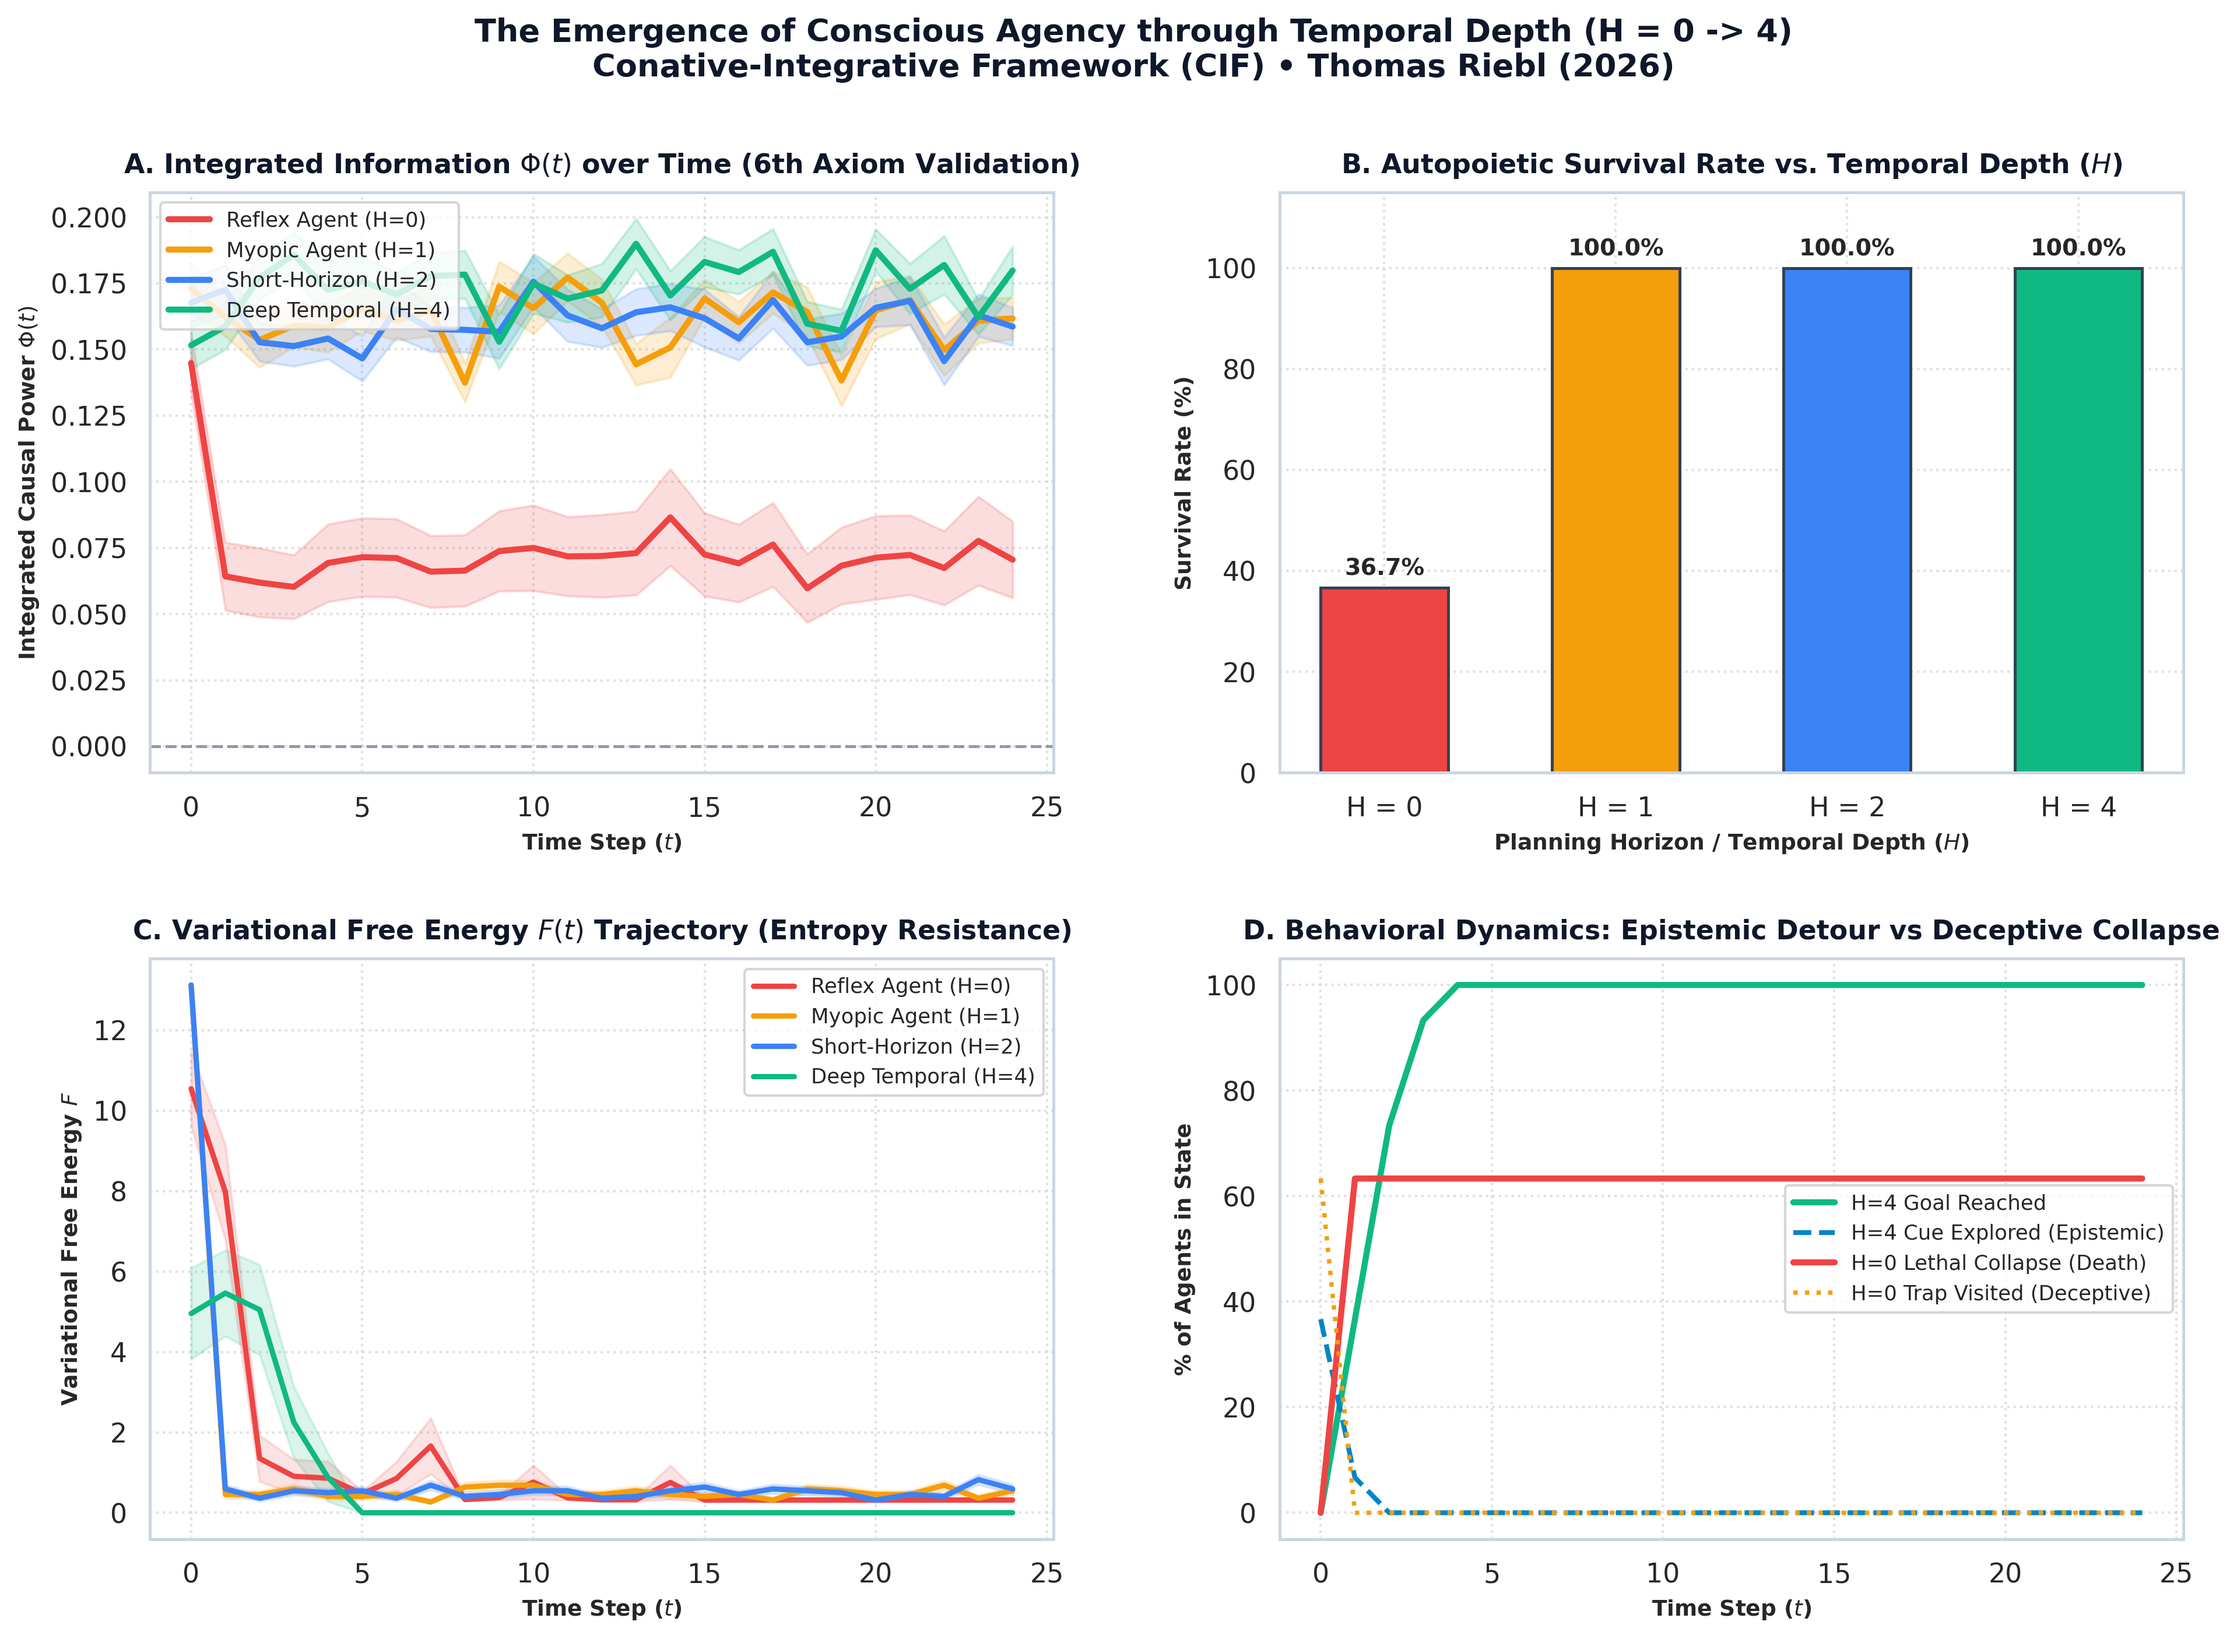
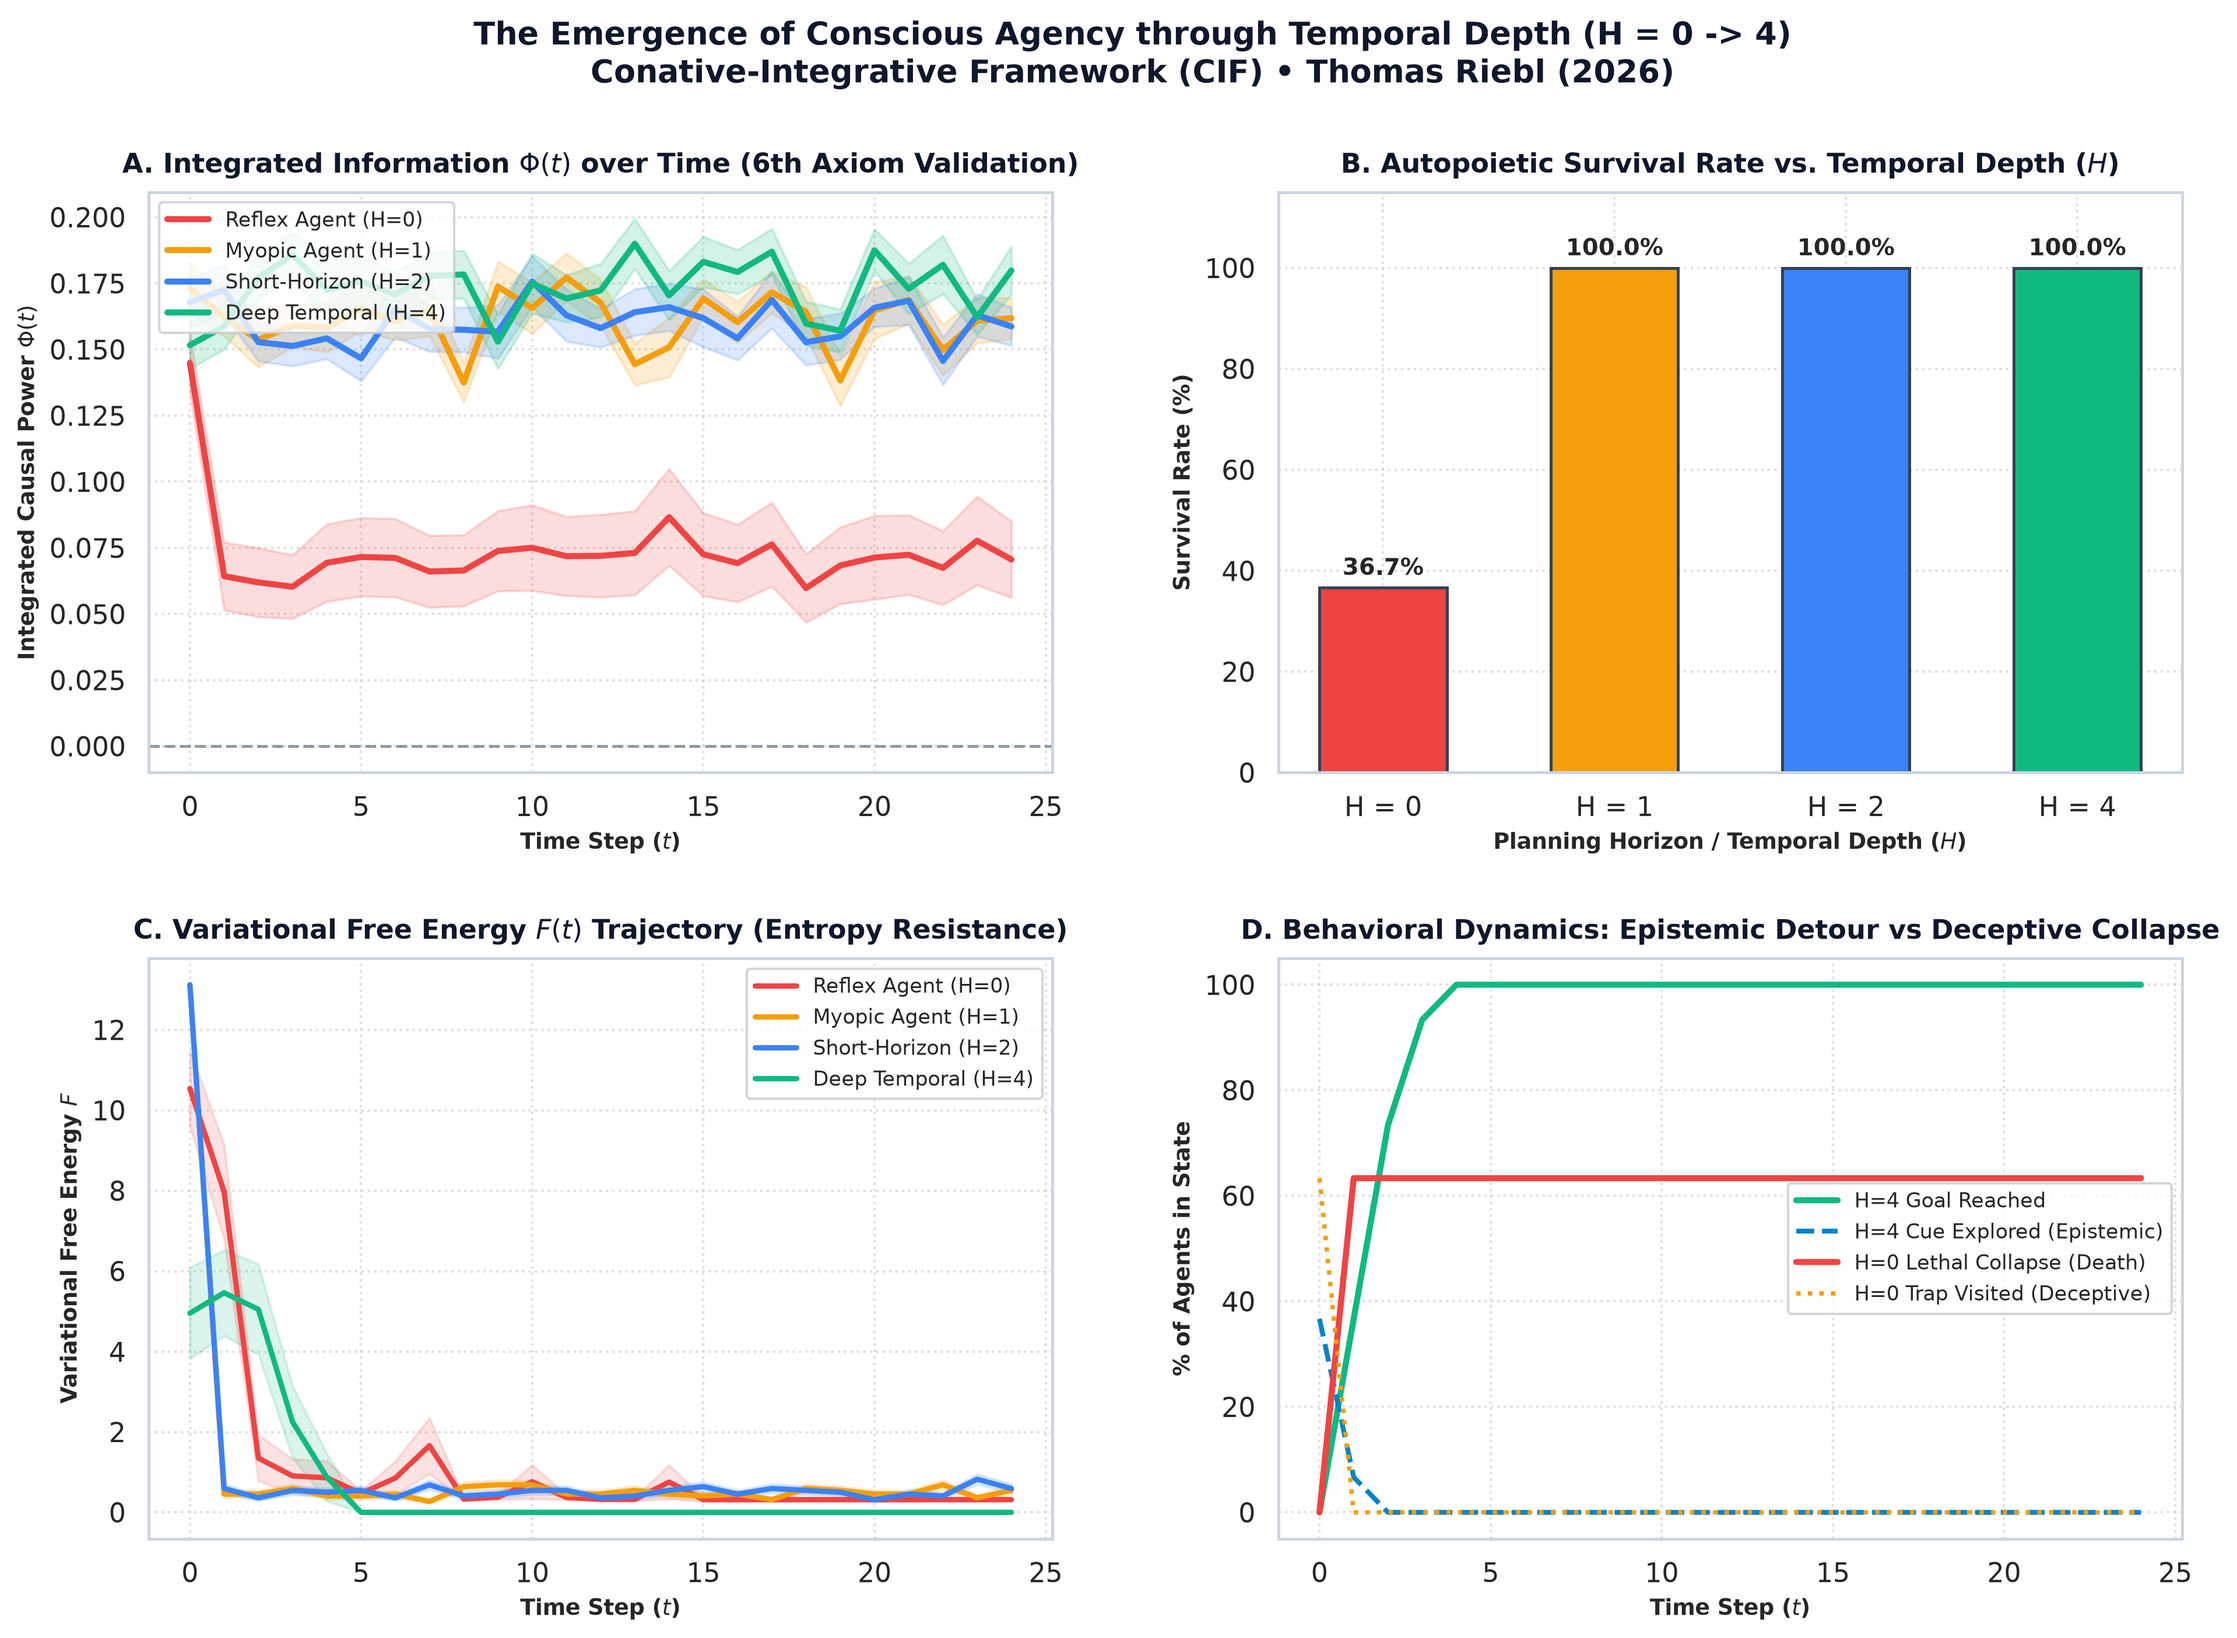
docs: cross-reference complete CIF monograph and deep temporal agent package

diff --git a/README.md b/README.md
@@ -74,6 +74,16 @@ $$\mathbb{E}\Big[\Phi(t+1) \;\Big|\; \pi^*\Big] \ge \Phi(t) \quad (\text{with } 
 
 ---
 
+## 📖 The Complete CIF Monograph & Agent Model
+
+This research is an integral part of the broader **Conative-Integrative Framework (CIF)**:
+* 🏛 **Primary CIF Repository:** [github.com/Thriebl/active-inference-phi-network](https://github.com/Thriebl/active-inference-phi-network)
+* 📕 **Complete Book Manuscript (10 Chapters):** [`book/manuscript_en/`](https://github.com/Thriebl/active-inference-phi-network/tree/main/book/manuscript_en)
+* 💻 **Chapter 7 (Deep Temporal Active Inference Agent):** [`07_computational_verification_and_monte_carlo.md`](https://github.com/Thriebl/active-inference-phi-network/blob/main/book/manuscript_en/07_computational_verification_and_monte_carlo.md)
+* ➰ **Standalone GNN Agent Package:** [`cif_gnn_model_package/`](https://github.com/Thriebl/active-inference-phi-network/tree/main/cif_gnn_model_package)
+
+---
+
 ## Repository Structure
 
 ```text
